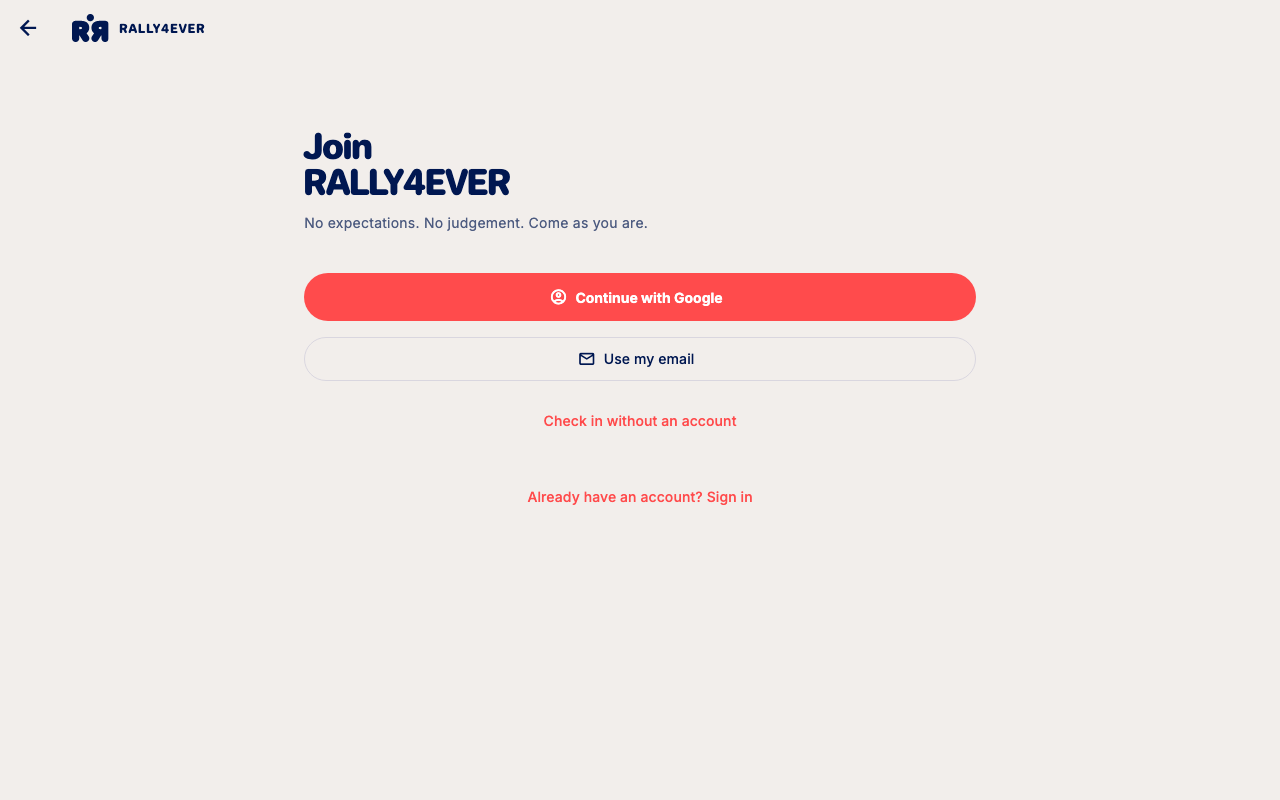
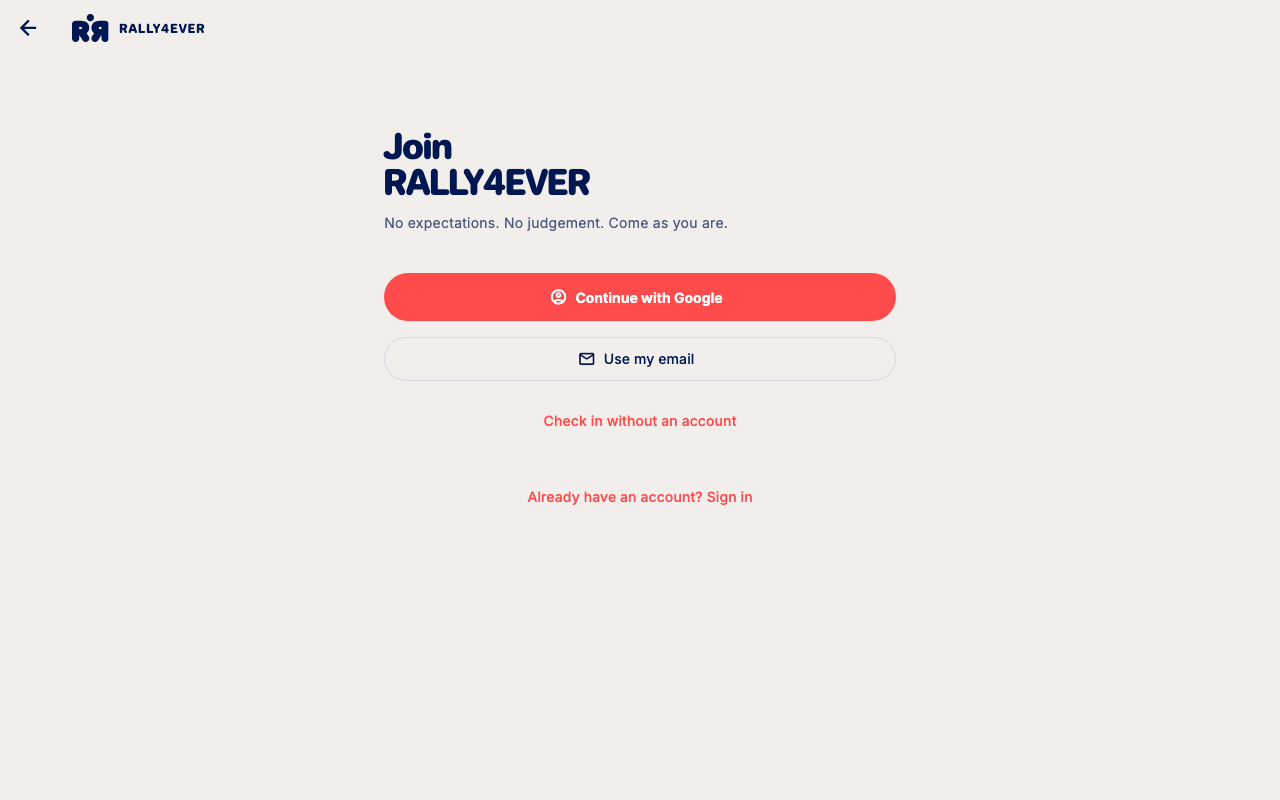
Fix the onboarding background not filling the screen on tablets/landscape (item 5)
Root cause: rootView()'s outer Column (red onboarding Scaffold, sign-in,
every page) had no crossAxisAlignment, so each page's own Scaffold sized
itself to its preferred width instead of stretching to the full
available width -- on a wide tablet the Scaffold (and its own
backgroundColor) could end up narrower than the screen, exposing the
root wrapper's grey (0xffe7e2de) behind it as bars down either side.
Added crossAxisAlignment: CrossAxisAlignment.stretch once at the root,
fixing every page at once rather than per-screen.

frame() gained a maxWidth parameter (defaults to the existing 720 used
by lists/map/home); set to 560 on the form/onboarding-style screens the
task names (entry, sign-in, create account, forgot password, no-account
check-in, onboarding's own introViewport, "You're in", About you, At the
court, Scan the coach's QR) -- lists and the main tabs keep the wider cap.

The logo: onboarding already uses the same brand()/Wordmark helper (the
real assets/brand/rally4ever_logo.svg) as sign-in -- no separate
"four-squares" placeholder was found anywhere in the current code to
replace.

7 new tests at exactly the three sizes the task specifies (800x1280,
1280x800, 360x640): no overflow, background fills the full scaffold
width, content capped at 560 above the app's existing 840 tablet
breakpoint (lists/Play explicitly keep the wider 720 cap). Regenerated
the welcome1/entry goldens that genuinely changed (560 vs the old 520/720
[…]

Changed region(s): [[0.2188, 0.1562, 0.5625, 0.3125], [0.6875, 0.3438, 0.7812, 0.4062], [0.2188, 0.3438, 0.3125, 0.4062]]

diff --git a/lib/participant/app.dart b/lib/participant/app.dart
@@ -429,6 +429,17 @@ class _ParticipantAppState extends State<ParticipantApp>
           child: SizedBox(
             width: constraints.maxWidth,
             child: Column(
+              // Without this, a Column's default cross-axis alignment
+              // lets each child size itself to its own preferred width --
+              // on a wide tablet, the page below (a Scaffold whose own
+              // backgroundColor is meant to fill the whole screen, e.g.
+              // onboarding's red) could end up narrower than the
+              // viewport, exposing this background colour as bars down
+              // either side instead. Stretching forces every page to
+              // take the full width; each page's own content still
+              // centres itself with a sensible max width (see frame()'s
+              // maxWidth / intro()'s introViewport).
+              crossAxisAlignment: CrossAxisAlignment.stretch,
               children: [
                 if (widget.lanTesting)
                   Material(
@@ -491,8 +502,14 @@ class _ParticipantAppState extends State<ParticipantApp>
     bool navigation = false,
     VoidCallback? back,
     bool showTitleIcon = true,
+    // A single-column form or onboarding-style screen reads better at a
+    // narrower width than a list/map screen on a wide tablet; pass 560
+    // for those (onboarding, sign-in, create account, About you, check-in).
+    // Lists/maps/the main tabs keep the wider default.
+    double? maxWidth,
   }) {
     final wide = isWide(context);
+    final contentMaxWidth = maxWidth ?? wideContentMaxWidth;
     final content = SafeArea(
       top: false,
       child: Column(
@@ -506,7 +523,7 @@ class _ParticipantAppState extends State<ParticipantApp>
             child: Center(
               child: ConstrainedBox(
                 constraints: BoxConstraints(
-                  maxWidth: wide ? wideContentMaxWidth : double.infinity,
+                  maxWidth: wide ? contentMaxWidth : double.infinity,
                 ),
                 child: ListView(
                   padding: const EdgeInsets.fromLTRB(24, 16, 24, 24),
@@ -666,6 +683,7 @@ class _ParticipantAppState extends State<ParticipantApp>
     if (page == 'entry') {
       return frame(
         context,
+        maxWidth: 560,
         back: () => go('welcome1'),
         children: [
           EntryScreen(
@@ -682,6 +700,7 @@ class _ParticipantAppState extends State<ParticipantApp>
     if (page == 'signin') {
       return frame(
         context,
+        maxWidth: 560,
         back: () => go('entry'),
         children: [
           SignInScreen(
@@ -699,6 +718,7 @@ class _ParticipantAppState extends State<ParticipantApp>
     if (page == 'signup') {
       return frame(
         context,
+        maxWidth: 560,
         back: () => go('entry'),
         children: [
           AccountForm(
@@ -714,6 +734,7 @@ class _ParticipantAppState extends State<ParticipantApp>
     if (page == 'forgot-password') {
       return frame(
         context,
+        maxWidth: 560,
         title: 'Reset password',
         back: () => go('signin'),
         children: [ForgotPasswordForm(repository: repo)],
@@ -722,6 +743,7 @@ class _ParticipantAppState extends State<ParticipantApp>
     if (page == 'noapp') {
       return frame(
         context,
+        maxWidth: 560,
         title: 'Scan the code',
         back: () => go(repo.hasSignedInBefore ? 'signin' : 'entry'),
         children: [
@@ -736,6 +758,7 @@ class _ParticipantAppState extends State<ParticipantApp>
     if (page == 'onboarded') {
       return frame(
         context,
+        maxWidth: 560,
         children: [
           const SizedBox(height: 40),
           StepBar(steps: signupSteps, current: 4),
@@ -797,6 +820,7 @@ class _ParticipantAppState extends State<ParticipantApp>
       final finish = editingProfile ? 'profile' : 'onboarded';
       return frame(
         context,
+        maxWidth: 560,
         title: 'About you',
         showTitleIcon: false,
         back: () => go('profile'),
@@ -1047,7 +1071,7 @@ class _ParticipantAppState extends State<ParticipantApp>
 
   Widget introViewport(Widget child) => Center(
     child: ConstrainedBox(
-      constraints: const BoxConstraints(maxWidth: 520),
+      constraints: const BoxConstraints(maxWidth: 560),
       child: !widget.lanTesting
           ? child
           : LayoutBuilder(
@@ -1584,6 +1608,7 @@ class _ParticipantAppState extends State<ParticipantApp>
         !(venueLat == 0 && venueLng == 0);
     return frame(
       context,
+      maxWidth: 560,
       dark: true,
       title: 'At the court',
       showTitleIcon: false,
@@ -1717,6 +1742,7 @@ class _ParticipantAppState extends State<ParticipantApp>
     if (widget.cameraEnabled) scanner ??= MobileScannerController();
     return frame(
       context,
+      maxWidth: 560,
       dark: true,
       title: 'Scan the coach’s QR',
       showTitleIcon: false,

diff --git a/test/background_fill_test.dart b/test/background_fill_test.dart
@@ -1,0 +1,102 @@
+import 'package:flutter/material.dart';
+import 'package:flutter/services.dart';
+import 'package:flutter_test/flutter_test.dart';
+import 'package:rally4ever/participant/app.dart';
+import 'package:timezone/data/latest.dart' as tz;
+
+import 'support/fake_participant.dart';
+
+/// Item 5: the page BACKGROUND must fill the whole screen on tablets/in
+/// landscape (red for onboarding, beige elsewhere), with only the CONTENT
+/// centred at a sensible max width -- at exactly the three sizes the task
+/// specifies (800x1280 portrait, 1280x800 landscape, 360x640 phone).
+void main() {
+  setUpAll(() async {
+    tz.initializeTimeZones();
+    await (FontLoader(
+      'MaterialIcons',
+    )..addFont(rootBundle.load('fonts/MaterialIcons-Regular.otf'))).load();
+    await (FontLoader(
+      'Inter',
+    )..addFont(rootBundle.load('assets/fonts/Inter.ttf'))).load();
+    await (FontLoader('Jellee')..addFont(
+          rootBundle.load('assets/fonts/Jellee_1223/TTF/Jellee-Bold.ttf'),
+        ))
+        .load();
+  });
+
+  const sizes = [Size(800, 1280), Size(1280, 800), Size(360, 640)];
+
+  Future<void> show(WidgetTester tester, Size size, String page) async {
+    tester.view.physicalSize = size;
+    tester.view.devicePixelRatio = 1;
+    addTearDown(tester.view.resetPhysicalSize);
+    addTearDown(tester.view.resetDevicePixelRatio);
+    await tester.pumpWidget(
+      ParticipantApp(
+        repository: FakeParticipantRepository(),
+        initialPage: page,
+        cameraEnabled: false,
+        mapTilesEnabled: false,
+      ),
+    );
+    await tester.pumpAndSettle();
+  }
+
+  for (final size in sizes) {
+    testWidgets(
+      'onboarding (red) background fills the whole screen at ${size.width}x${size.height}, no overflow',
+      (tester) async {
+        await show(tester, size, 'welcome1');
+        expect(tester.takeException(), isNull);
+        final scaffold = tester.widget<Scaffold>(find.byType(Scaffold).first);
+        expect(scaffold.backgroundColor, isNot(Colors.white));
+        expect(scaffold.backgroundColor, isNot(const Color(0xffe7e2de)));
+        final scaffoldSize = tester.getSize(find.byType(Scaffold).first);
+        expect(scaffoldSize.width, size.width);
+        // Content (the Continue button) stays well short of the full
+        // width on a wide screen -- centred, not stretched edge to edge.
+        // The app's existing tablet breakpoint is 840 (see frame()'s
+        // isWide/wideBreakpoint); below that, content is intentionally
+        // full-width, same as a phone.
+        final buttonWidth = tester
+            .getSize(find.byType(FilledButton).last)
+            .width;
+        if (size.width >= 840) {
+          expect(buttonWidth, lessThanOrEqualTo(560));
+        }
+      },
+    );
+  }
+
+  for (final size in sizes) {
+    testWidgets(
+      'a form screen (sign-up) background fills the whole screen at ${size.width}x${size.height}, content capped at 560',
+      (tester) async {
+        await show(tester, size, 'signup');
+        expect(tester.takeException(), isNull);
+        final scaffold = tester.widget<Scaffold>(find.byType(Scaffold).first);
+        expect(scaffold.backgroundColor, isNot(Colors.white));
+        final scaffoldSize = tester.getSize(find.byType(Scaffold).first);
+        expect(scaffoldSize.width, size.width);
+        final contentArea = tester.getSize(find.byKey(const Key('frame-content')));
+        expect(contentArea.width, size.width);
+        if (size.width >= 840) {
+          final emailField = tester.getSize(find.byKey(const Key('email')));
+          expect(emailField.width, lessThanOrEqualTo(560));
+        }
+      },
+    );
+  }
+
+  testWidgets(
+    'a list screen (home/Play) keeps the wider cap, not squeezed to 560',
+    (tester) async {
+      await show(tester, const Size(1280, 800), 'home');
+      expect(tester.takeException(), isNull);
+      final listViewWidth = tester.getSize(find.byType(ListView).first).width;
+      expect(listViewWidth, greaterThan(560));
+      expect(listViewWidth, lessThanOrEqualTo(720));
+    },
+  );
+}

diff --git a/test/responsive_layout_test.dart b/test/responsive_layout_test.dart
@@ -161,7 +161,7 @@ void main() {
           expect(box.backgroundColor, isNot(Colors.white));
           expect(
             tester.getSize(find.byType(FilledButton).last).width,
-            lessThanOrEqualTo(520),
+            lessThanOrEqualTo(560),
           );
         }
       });
